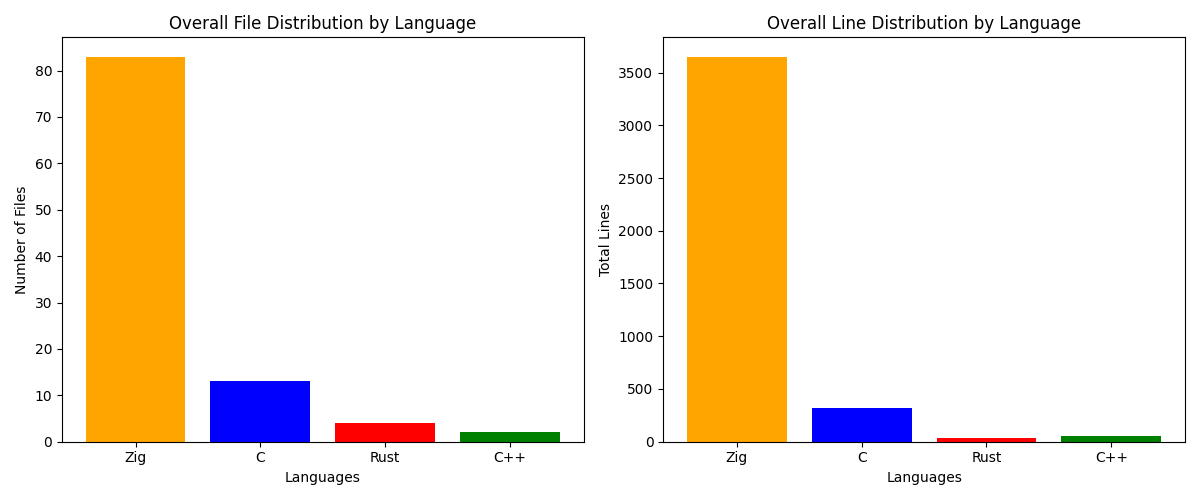
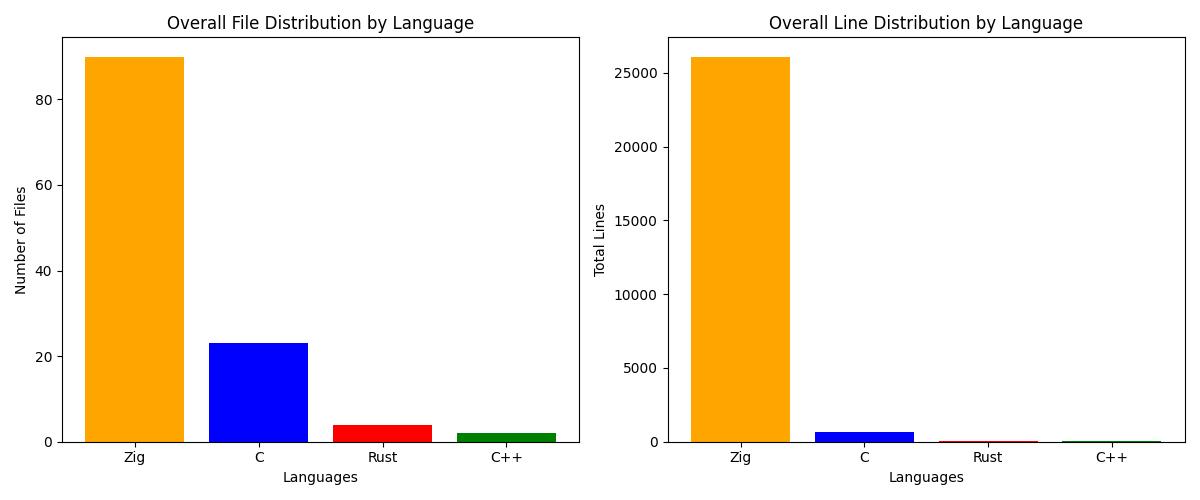
Update README.md with statistics

diff --git a/README.md b/README.md
@@ -11,6 +11,7 @@
 - [Chapter 04: Arrays and Slices](https://github.com/MKProj/ZigUnleashed/tree/main/ch04)  
 - [Chapter 05: Struct, Enums and Unions](https://github.com/MKProj/ZigUnleashed/tree/main/ch05)  
 - [Chapter 06: Pointers and Memory Management](https://github.com/MKProj/ZigUnleashed/tree/main/ch06)  
+- [Chapter 08: Interfacing with C](https://github.com/MKProj/ZigUnleashed/tree/main/ch08)  
 - [Chapter 09: Advance Topics](https://github.com/MKProj/ZigUnleashed/tree/main/ch09)  
 ---
 ## Software Requirements
@@ -98,9 +99,18 @@ Rust target: `rustup target add armv7-unknown-linux-gnueabihf`
 
 | Language   | Number of Files   | Total Lines   |
 |:-----------|:------------------|:--------------|
-| Zig        | 16                | 2255          |
-| C          | 3                 | 51            |
-| **Total**  | **19**            | **2306**      |
+| Zig        | 19                | 2647          |
+| C          | 9                 | 102           |
+| **Total**  | **28**            | **2749**      |
+
+
+## Chapter 8: Interfacing with C
+
+| Language   | Number of Files   | Total Lines   |
+|:-----------|:------------------|:--------------|
+| Zig        | 4                 | 22062         |
+| C          | 4                 | 258           |
+| **Total**  | **8**             | **22320**     |
 
 
 ## Chapter 9: Advance Topics
